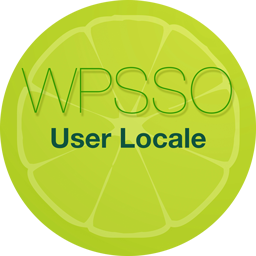
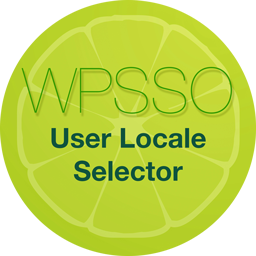
v1.1.1-1

Changed region(s): [[0.2812, 0.625, 0.7188, 0.7188]]

diff --git a/wpsso-user-locale.php b/wpsso-user-locale.php
@@ -1,6 +1,6 @@
 <?php
 /*
- * Plugin Name: WPSSO User Locale (WPSSO UL)
+ * Plugin Name: WPSSO User Locale Selector (WPSSO UL)
  * Text Domain: wpsso-user-locale
  * Domain Path: /languages
  * Plugin URI: https://surniaulula.com/extend/plugins/wpsso-user-locale/
@@ -9,7 +9,7 @@
  * Author URI: https://surniaulula.com/
  * License: GPLv3
  * License URI: http://www.gnu.org/licenses/gpl.txt
- * Description: WPSSO extension to add a user locale / language selector in the WordPress admin back-end and front-end toolbar menus.
+ * Description: WPSSO extension to add a user locale / language / region selector in the WordPress admin back-end and front-end toolbar menus.
  * Requires At Least: 3.7
  * Tested Up To: 4.7.3
  * Version: 1.1.1-1

diff --git a/lib/config.php b/lib/config.php
@@ -18,8 +18,8 @@ if ( ! class_exists( 'WpssoUlConfig' ) ) {
 					'version' => '1.1.1-1',		// plugin version
 					'opt_version' => '6',		// increment when changing default options
 					'short' => 'WPSSO UL',		// short plugin name
-					'name' => 'WPSSO User Locale (WPSSO UL)',
-					'desc' => 'WPSSO extension to add a user locale / language selector in the WordPress admin back-end and front-end toolbar menus.',
+					'name' => 'WPSSO User Locale Selector (WPSSO UL)',
+					'desc' => 'WPSSO extension to add a user locale / language / region selector in the WordPress admin back-end and front-end toolbar menus.',
 					'slug' => 'wpsso-user-locale',
 					'base' => 'wpsso-user-locale/wpsso-user-locale.php',
 					'update_auth' => '',

diff --git a/lib/config-gettext-extract.php b/lib/config-gettext-extract.php
@@ -1,5 +1,5 @@
 <?php die( 'These aren\'t the droids you\'re looking for...' );
 // extract of translatable text strings from static config array(s)
 _x( 'User Locale', 'lib file description', 'wpsso-user-locale' );
-_x( 'WPSSO extension to add a user locale / language selector in the WordPress admin back-end and front-end toolbar menus.', 'plugin description', 'wpsso-user-locale' );
+_x( 'WPSSO extension to add a user locale / language / region selector in the WordPress admin back-end and front-end toolbar menus.', 'plugin description', 'wpsso-user-locale' );
 ?>
